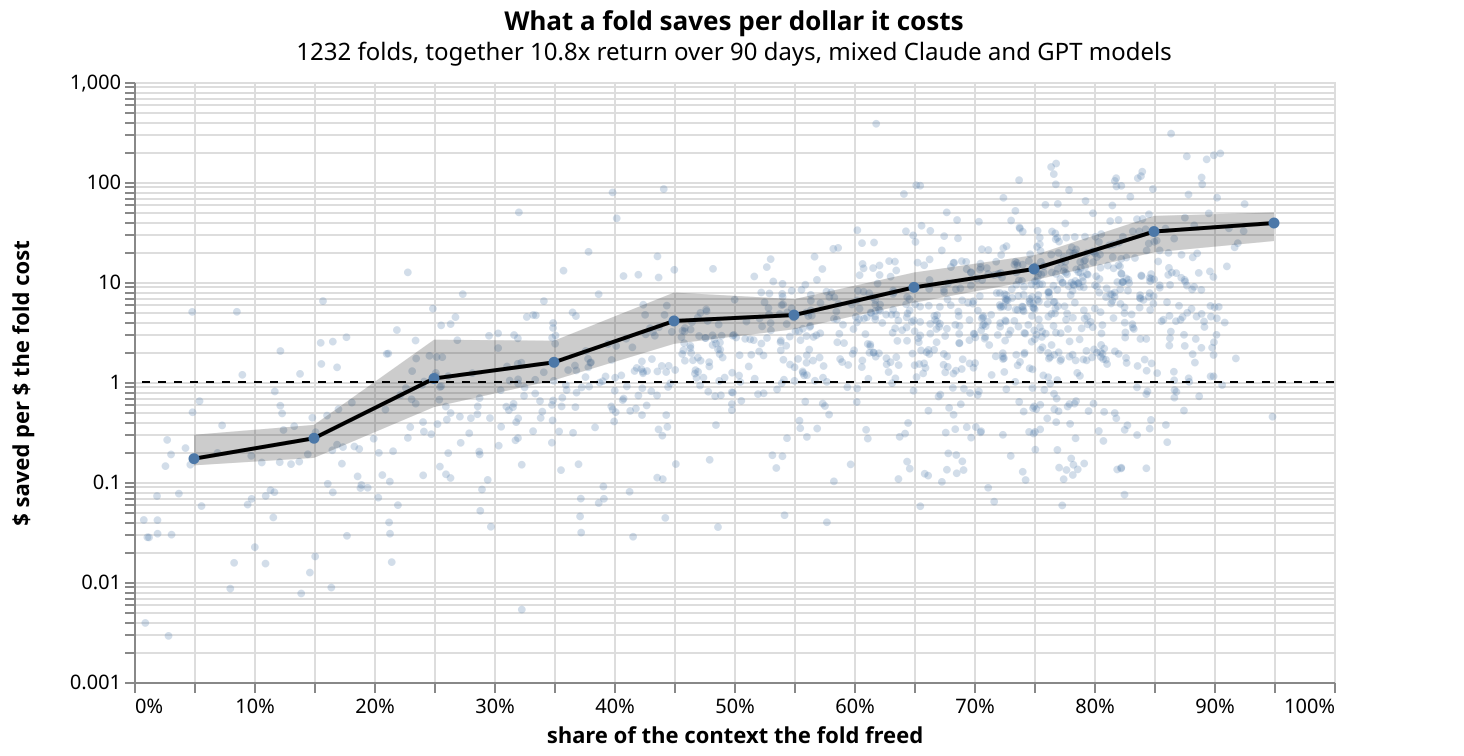
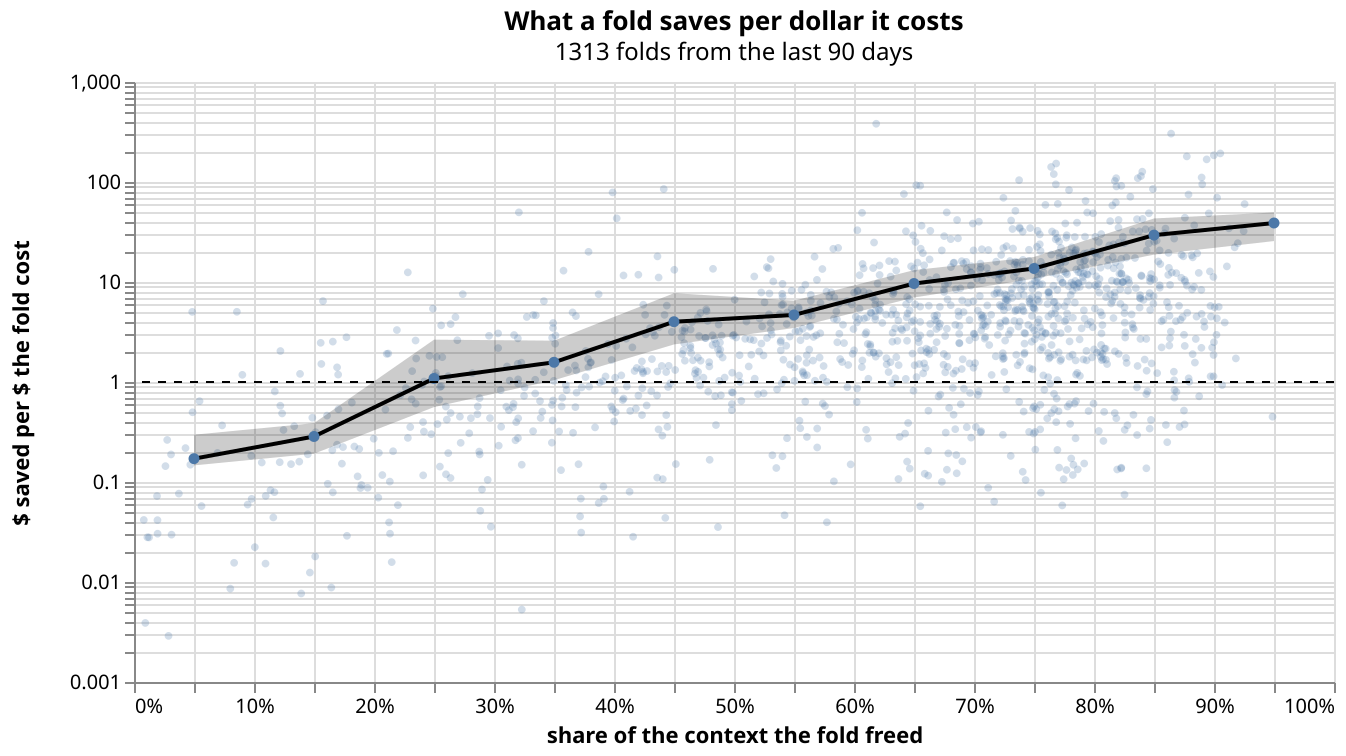
README: shorter reminder and fold-payoff sections, with the charts behind both defaults

diff --git a/scripts/package.test.ts b/scripts/package.test.ts
@@ -18,7 +18,7 @@ test("the npm package contains the extension and README resources, not developme
     const source = readdirSync("extensions/infinite-context")
       .filter((name) => name.endsWith(".ts") && !name.endsWith(".test.ts") && name !== "pi-test-fixtures.ts")
       .map((name) => `extensions/infinite-context/${name}`);
-    assert.deepEqual(actual, ["package.json", "README.md", "LICENSE", "DESIGN.md", "docs/folding.svg", "docs/fold-payoff.png", "docs/publishing.md", ...source].sort());
+    assert.deepEqual(actual, ["package.json", "README.md", "LICENSE", "DESIGN.md", "docs/folding.svg", "docs/fold-payoff.png", "docs/reminder-limit.png", "docs/publishing.md", ...source].sort());
   } finally {
     rmSync(cache, { recursive: true, force: true });
   }

diff --git a/README.md b/README.md
@@ -29,36 +29,30 @@ Map and search results provide the IDs to read next.
 
 ## Context reminders
 
-When Pi estimates that context holds at least **150k tokens or 75% of the model's window** (whichever comes first), the extension reminds the agent during tool work to fold what later work no longer needs while keeping the thread (instructions, the active request, open decisions), once that frees about 30% of the context or little room is left. Each reminder states that share in tokens. If the agent does not fold, it reminds again after another 15k tokens (sooner when little room remains). In practice the agent folds at the first reminder 78% of the time, so repeats are rare.
+From **150k tokens or 75% of the window** (whichever comes first), the extension reminds the agent to fold while it works with tools. The reminder says how many tokens a fold should free: about 30% of the context ([why](#when-a-fold-pays-off)). If the agent does not fold, it reminds again after another 15k tokens. In practice it folds at the first reminder 77% of the time. Reminders never fold anything themselves.
 
-Optional file `~/.pi/agent/infinite-context/settings.json` (inside Pi's configured agent directory) changes the limits; missing or invalid values use the defaults, and changes apply after restarting Pi:
+![Cost per prompt of 67 sessions, each with a random reminder limit between 100k and 300k tokens. The fitted line is almost flat, and the shaded range where the cheapest limit may lie covers the whole range.](docs/reminder-limit.png)
+
+Why 150k: in this experiment, each session got a random limit between 100k and 300k tokens. Each dot is one session, and bigger dots have more prompts. The line is the trend, and the shaded area is where the cheapest limit may lie. So far, no limit in this range is clearly cheaper, so 150k costs no more than a later limit.
+
+Change the limits in `~/.pi/agent/infinite-context/settings.json` and restart Pi:
 
 ```json
 { "nudgeAtTokens": 150000, "nudgeAtPercent": 75 }
 ```
 
-`nudgeAtTokens` can also be a range, `[100000, 300000]`, to measure how the limit affects cost: each session then draws one limit uniformly from the range and keeps it when resumed, reloaded or forked. A changed range draws anew.
-
-The session records the effective limits as a `custom` entry of type `infinite-context:settings` whenever they change (with `nudgeAtTokensRange` when the limit was drawn), and each reminder carries its token count, window, threshold and step in `details`.
-
-The agent chooses what to fold and writes the summaries. Reminders do not fold anything themselves.
+`nudgeAtTokens` can also be a range like `[100000, 300000]`. Each session then draws its own limit, which is how the experiment above works. Sessions record their limits and reminders, so tools like [context-efficiency](https://github.com/fdietze/context-efficiency) can analyze them.
 
 Pi's own compaction, including `/compact`, is blocked. If the agent does not fold enough, the context can still overflow.
 
-If saved folds cannot be applied (the snapshot does not match the branch, the branch fails a check, or the request cannot be mapped to the history), the extension stops the first request and shows the reason, instead of sending the unfolded transcript, which costs several times more and can overflow the window. Send another message to continue unfolded (the status line then shows "folds not applied: sending unfolded"), hand the work over to a new session, or have another agent repair the session file. Reloading tries the folds again. Subagents show no notice; their parent sees an aborted run. Without folds, nothing changes.
+If saved folds no longer match the session, the extension stops the next request and says why. Sending the whole history unfolded would cost several times more and could overflow the window. Send another message to continue unfolded, or hand the work over to a new session. Reloading tries the folds again.
 
 ## When a fold pays off
 
-Providers cache the start of a prompt; cached tokens cost about a tenth of uncached ones. A fold changes the prompt from the first folded message onward, so the next request reads that part uncached (47% cached instead of 99%). After that, the shorter prompt is cached again and every request reads fewer tokens.
+Providers cache the start of a prompt, and cached tokens cost about a tenth of uncached ones. A fold changes the prompt, so the next request is mostly uncached. Altogether, a fold costs about ten cached reads of the whole context. After that, every request reads fewer tokens.
 
-So a fold costs its folding turns plus that one cache miss, together about ten cached reads of the whole context, and every later request saves the freed share of one read. So it pays off when (share freed) × (requests until the next fold) exceeds about 10. Folds are typically followed by a few dozen requests, so in practice the share decides:
+![Dollars saved per dollar spent for each fold, against the share of context it freed, on a log scale. The line for all folds rises from about 0.2 below 20% freed, crosses 1 between 20% and 30%, and reaches about 14 at 70-80%.](docs/fold-payoff.png)
 
-![Return per dollar of 1,232 folds against the share of context each freed, on a log scale. The return of all folds in each 10% step rises from about 0.2 below 20% freed, crosses 1 between 20% and 30%, and reaches about 13 at 70-80%.](docs/fold-payoff.png)
+Each dot is one fold. The further right, the more of the context it freed. The higher, the more dollars it saved per dollar it cost. The line shows all folds together, and above the dashed line a fold paid off. Folds that free less than 20% lose money. From 30%, folds pay off on average, because a few dozen requests usually follow. At 70–80%, they return about 14×. So the reminder asks for about 30%.
 
-Each dot is one fold: the share of the context it freed (x) and the dollars it saved per dollar it cost (y, log scale), counting savings until the next fold. The black line is the return of all folds in each 10% step, the gray band its 90% interval. Above the dashed line a fold paid off.
-
-- Folds that free less than 20% lose money: about $0.2 back per $1.
-- Folds break even between 20% and 30% and pay off on average from 30% (the gray band stays above 1), though single folds vary widely: about $4 back at 40–50%, about $13 at 70–80%.
-- So the reminders ask for about 30% of the context.
-
-Measured on the author's sessions over 90 days: 1,232 folds, Claude and GPT models. A median fold shrank the context from 152k to 46k tokens. Only cost is measured, not how folding affects the quality of the agent's work. The chart comes from [context-efficiency](https://github.com/fdietze/context-efficiency) (`context-efficiency-metrics --all-projects --since 90d --html report.html`).
+Both charts use the author's sessions with Claude and GPT models: the last 90 days for folds, and since 2026-10-26 for the limit experiment. They measure cost only, not the quality of the agent's work. They come from [context-efficiency](https://github.com/fdietze/context-efficiency).

diff --git a/AGENTS.md b/AGENTS.md
@@ -14,7 +14,7 @@ Use simple, accurate English and keep both documents very concise.
 - `scripts/*.test.ts`: release-policy and real package-content checks.
 - `package.json` → `files`, `extensions/infinite-context/.npmignore`: published files and test exclusions.
 - `docs/folding.svg`: recursive folding diagram embedded in the README.
-- `docs/fold-payoff.png`: fold return chart embedded in the README, rendered from [context-efficiency](https://github.com/fdietze/context-efficiency).
+- `docs/fold-payoff.png`, `docs/reminder-limit.png`: charts embedded in the README that justify the default fold share and reminder limit, rendered from [context-efficiency](https://github.com/fdietze/context-efficiency).
 - `DESIGN.md`: archive vocabulary, data structure, fold algebra, and invariants.
 - `extensions/infinite-context/index.ts`: Pi integration and tool registration.
 - `extensions/infinite-context/forest.ts`: pure recursive archive state and transforms.
